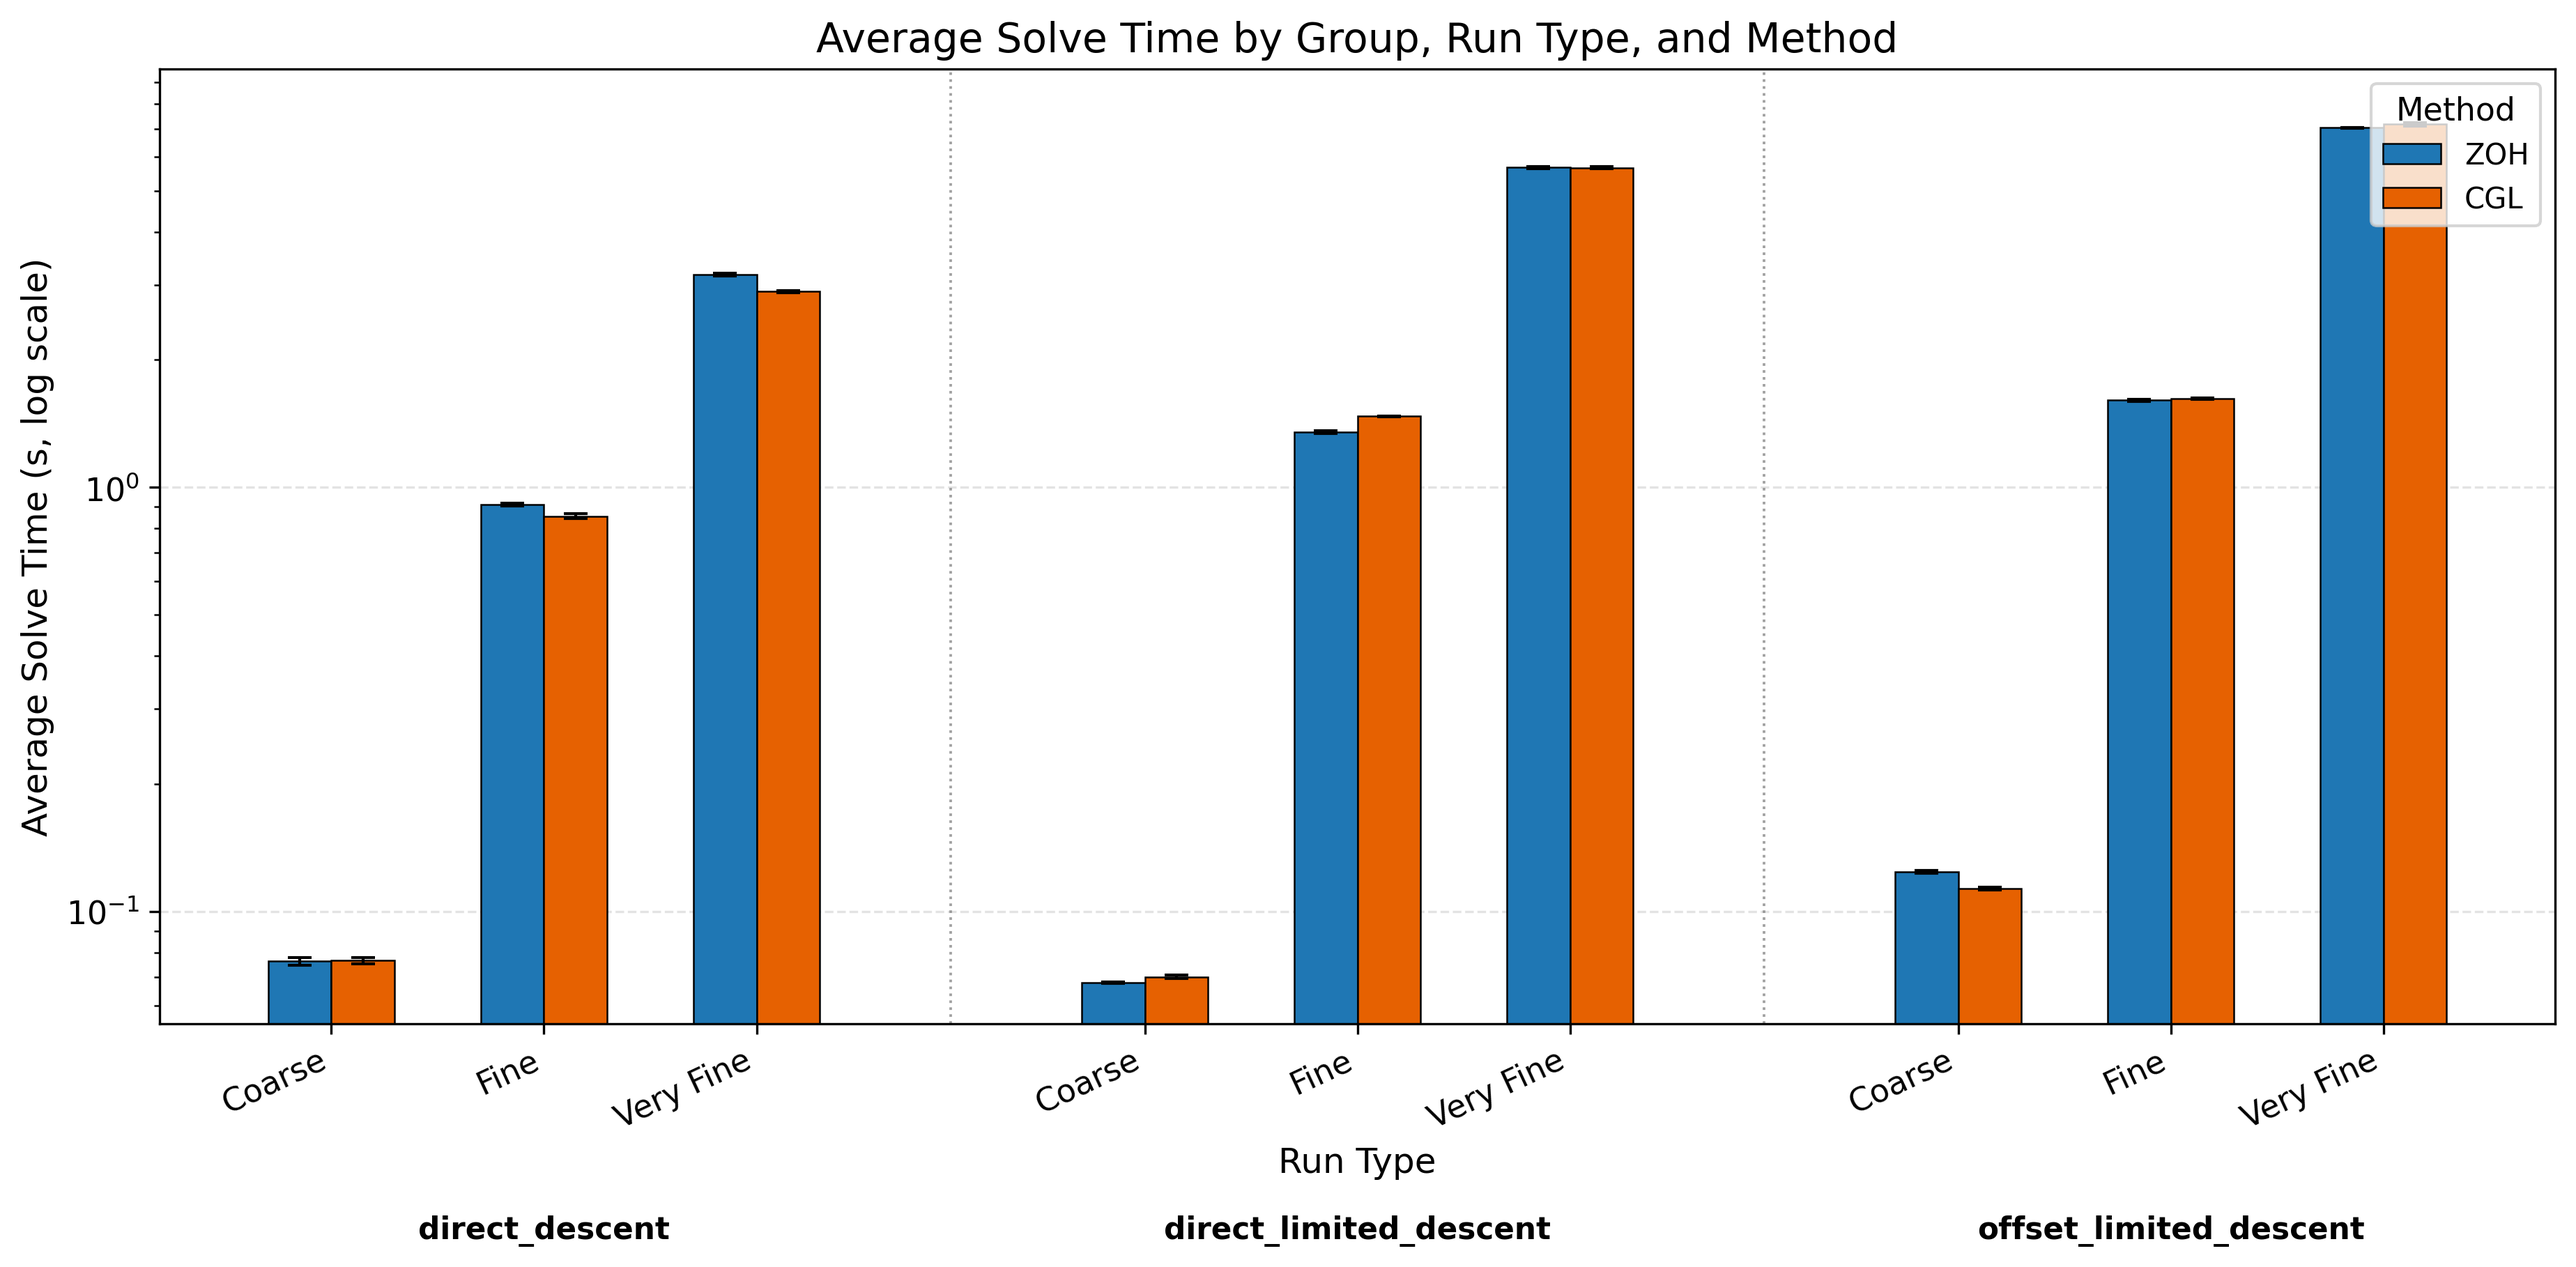
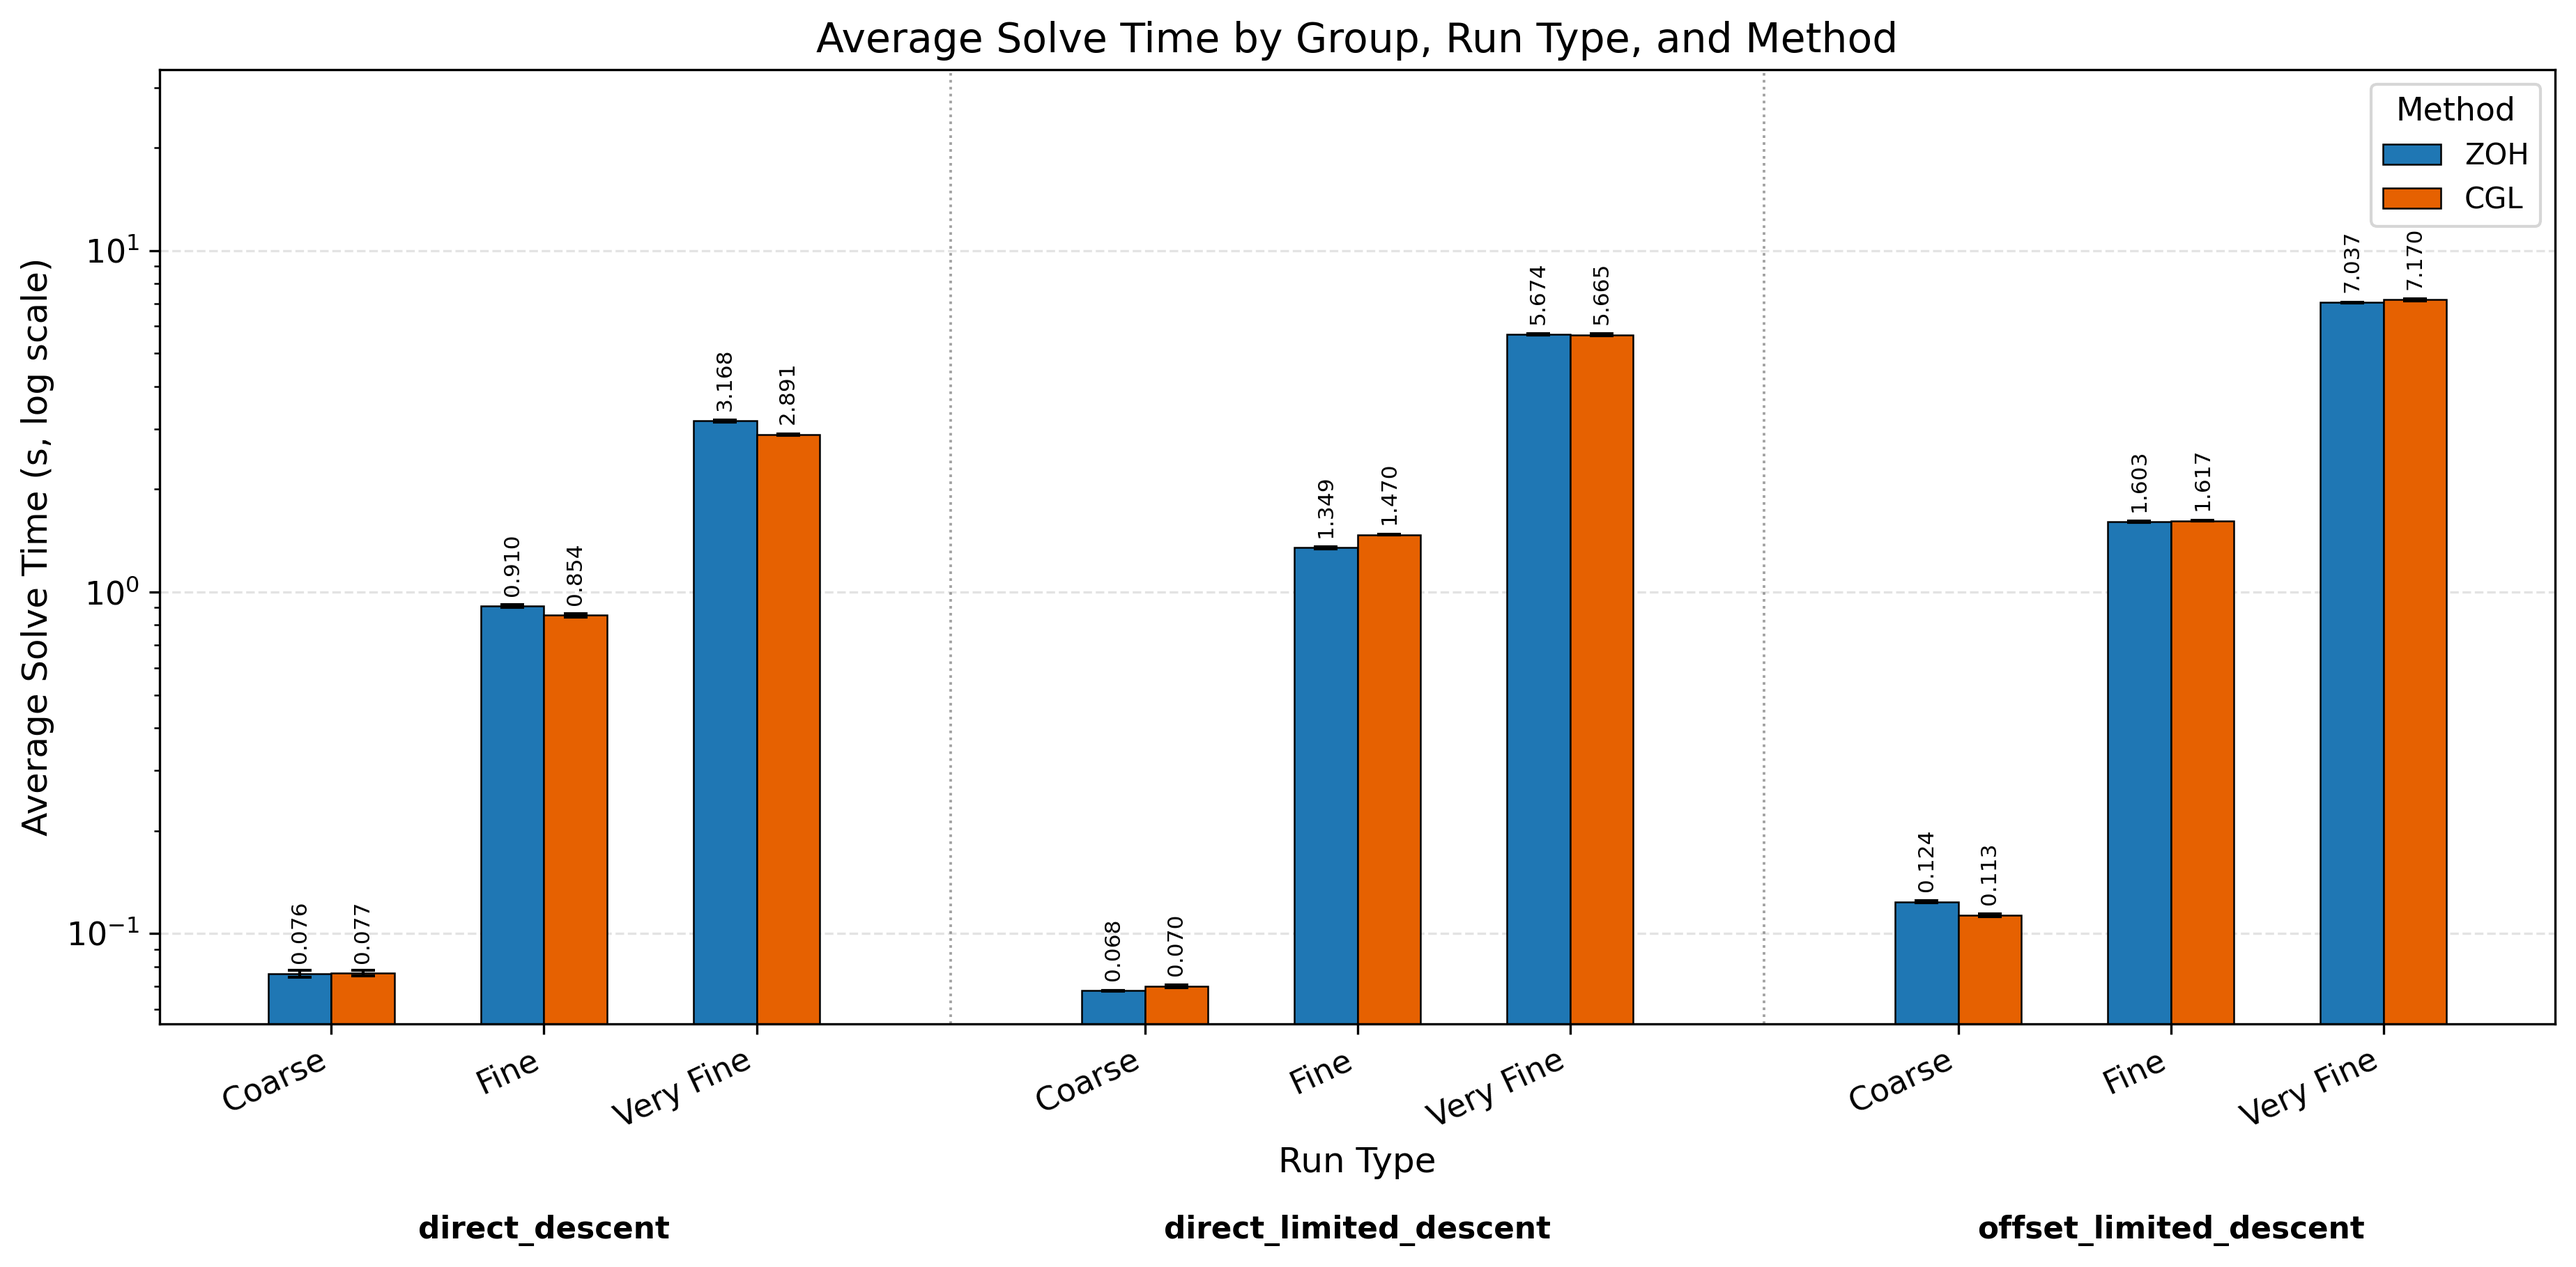
graphs yay!

diff --git a/Algorithms/LosslessConvexification/rust_lossless/src/plot_avg_solve_time_grouped.py b/Algorithms/LosslessConvexification/rust_lossless/src/plot_avg_solve_time_grouped.py
@@ -154,6 +154,7 @@ def make_plot(
     fig_width = max(12.0, 1.05 * len(cluster_positions) + 3.0)
     fig, ax = plt.subplots(figsize=(fig_width, 6.0))
     all_y_values: list[float] = []
+    bar_containers = []
 
     for method in METHODS:
         x_vals = []
@@ -179,7 +180,7 @@ def make_plot(
         if not x_vals:
             continue
 
-        ax.bar(
+        container = ax.bar(
             x_vals,
             y_vals,
             width=bar_width,
@@ -191,6 +192,7 @@ def make_plot(
             error_kw={"elinewidth": 1.0, "ecolor": "black"},
             label=method.upper(),
         )
+        bar_containers.append(container)
 
     if not all_y_values:
         raise RuntimeError("No positive avg_solve_time values available for log-scale plotting")
@@ -205,10 +207,34 @@ def make_plot(
     ax.set_xlabel("Run Type")
     ax.set_yscale("log")
     y_min = min(all_y_values) * 0.8
-    y_max = max(all_y_values) * 1.35
+    y_max = max(all_y_values) * 4
     ax.set_ylim(bottom=max(y_min, 1e-9), top=y_max)
+
+    # Add explicit headroom so bars and labels do not crowd the top border.
+    y_bottom, y_top = ax.get_ylim()
+    ax.set_ylim(y_bottom, y_top * 1.18)
+    y_max = ax.get_ylim()[1]
+
     ax.grid(axis="y", linestyle="--", linewidth=0.8, alpha=0.35)
     ax.set_axisbelow(True)
+
+    # Put numeric values just above each bar with a multiplicative offset for log axes.
+    for container in bar_containers:
+        for bar in container:
+            height = bar.get_height()
+            if height <= 0:
+                continue
+            label_y = min(height * 1.07, y_max * 0.98)
+            ax.text(
+                bar.get_x() + bar.get_width() / 2.0,
+                label_y,
+                f"{height:.3f}",
+                ha="center",
+                va="bottom",
+                fontsize=7.5,
+                rotation=90,
+            )
+
     ax.legend(title="Method", loc="upper right")
 
     y_bottom, y_top = ax.get_ylim()

diff --git a/Algorithms/LosslessConvexification/rust_lossless/src/plot_rmse_split_by_method.py b/Algorithms/LosslessConvexification/rust_lossless/src/plot_rmse_split_by_method.py
@@ -138,6 +138,7 @@ def plot_metric(
 
     fig_width = max(12.0, 1.2 * n_groups + 8.0)
     fig, ax = plt.subplots(figsize=(fig_width, 5.8))
+    bar_containers = []
 
     for run_type in RUN_TYPES:
         color = RUN_TYPE_COLORS[run_type]
@@ -152,7 +153,7 @@ def plot_metric(
             for group in groups
         ]
 
-        ax.bar(
+        zoh_container = ax.bar(
             [x + offset for x in left_centers],
             zoh_vals,
             width=bar_width,
@@ -161,7 +162,7 @@ def plot_metric(
             linewidth=0.6,
             label=RUN_TYPE_LABELS[run_type],
         )
-        ax.bar(
+        cgl_container = ax.bar(
             [x + offset for x in right_centers],
             cgl_vals,
             width=bar_width,
@@ -169,6 +170,7 @@ def plot_metric(
             edgecolor="black",
             linewidth=0.6,
         )
+        bar_containers.extend([zoh_container, cgl_container])
 
     tick_positions = left_centers + right_centers
     tick_labels = [f"{group}\nZOH" for group in groups] + [f"{group}\nCGL" for group in groups]
@@ -208,6 +210,24 @@ def plot_metric(
     ax.set_xlabel("Group and Method")
     ax.grid(axis="y", linestyle="--", linewidth=0.8, alpha=0.35)
     ax.set_axisbelow(True)
+
+    y_min, y_max = ax.get_ylim()
+    y_offset = (y_max - y_min) * 0.012
+    for container in bar_containers:
+        for bar in container:
+            height = bar.get_height()
+            if not math.isfinite(height):
+                continue
+            ax.text(
+                bar.get_x() + bar.get_width() / 2.0,
+                height + y_offset,
+                f"{height:.3f}",
+                ha="center",
+                va="bottom",
+                fontsize=7,
+                rotation=90,
+            )
+
     ax.legend(
         title="Run Type",
         ncol=1,
